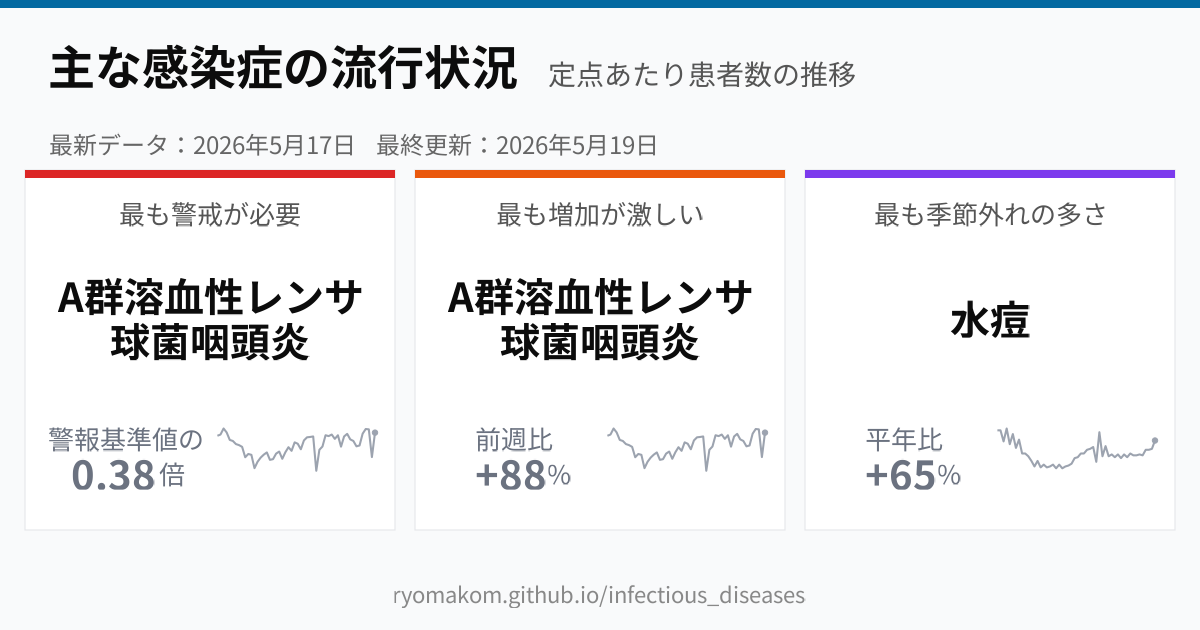
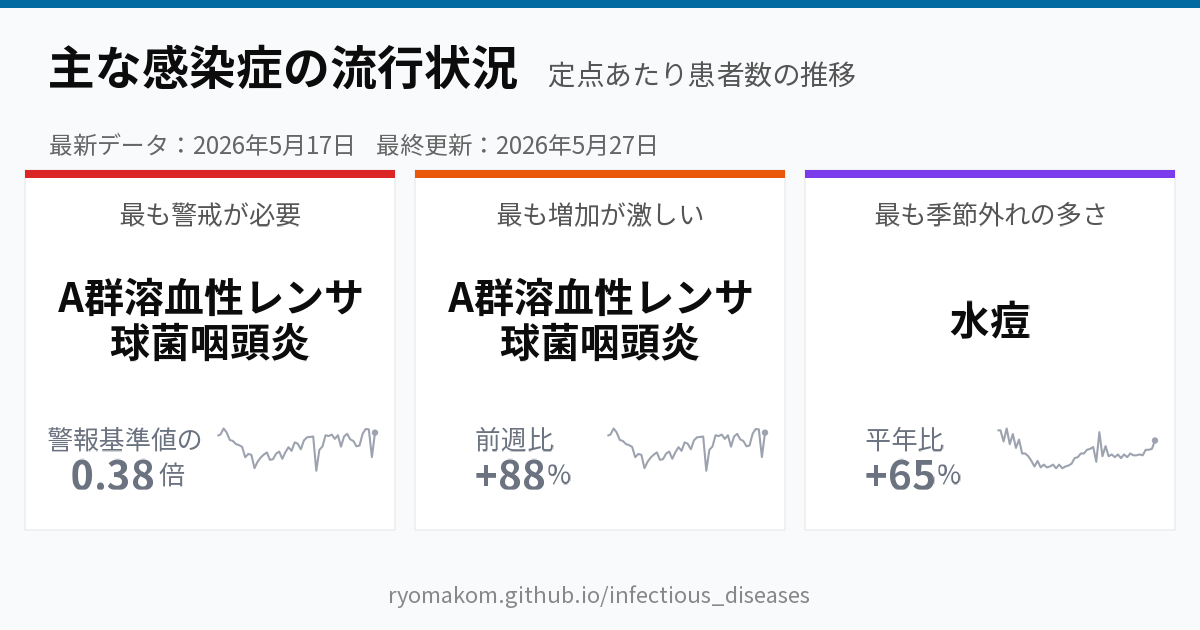
OGP最終更新日を2026-05-27に修正、last_fetch.txt上書き防止ロジック追加

diff --git a/docs/index.html b/docs/index.html
@@ -22,13 +22,13 @@
   <meta property="og:title" content="主な感染症の流行状況">
   <meta property="og:description" content="国立健康危機管理研究機構の公開データをもとに、都道府県別の主な感染症の定点あたり患者数の週次推移を可視化しています。">
   <meta property="og:url" content="https://ryomakom.github.io/infectious_diseases/">
-  <meta property="og:image" content="https://ryomakom.github.io/infectious_diseases/ogp.png?v=20260519">
+  <meta property="og:image" content="https://ryomakom.github.io/infectious_diseases/ogp.png?v=20260527">
   <meta property="og:image:width" content="1200">
   <meta property="og:image:height" content="630">
 
   <meta name="twitter:card" content="summary_large_image">
   <meta name="twitter:title" content="主な感染症の流行状況">
-  <meta name="twitter:image" content="https://ryomakom.github.io/infectious_diseases/ogp.png?v=20260519">
+  <meta name="twitter:image" content="https://ryomakom.github.io/infectious_diseases/ogp.png?v=20260527">
 
   <link rel="preconnect" href="https://fonts.googleapis.com">
   <link rel="preconnect" href="https://fonts.gstatic.com" crossorigin>
